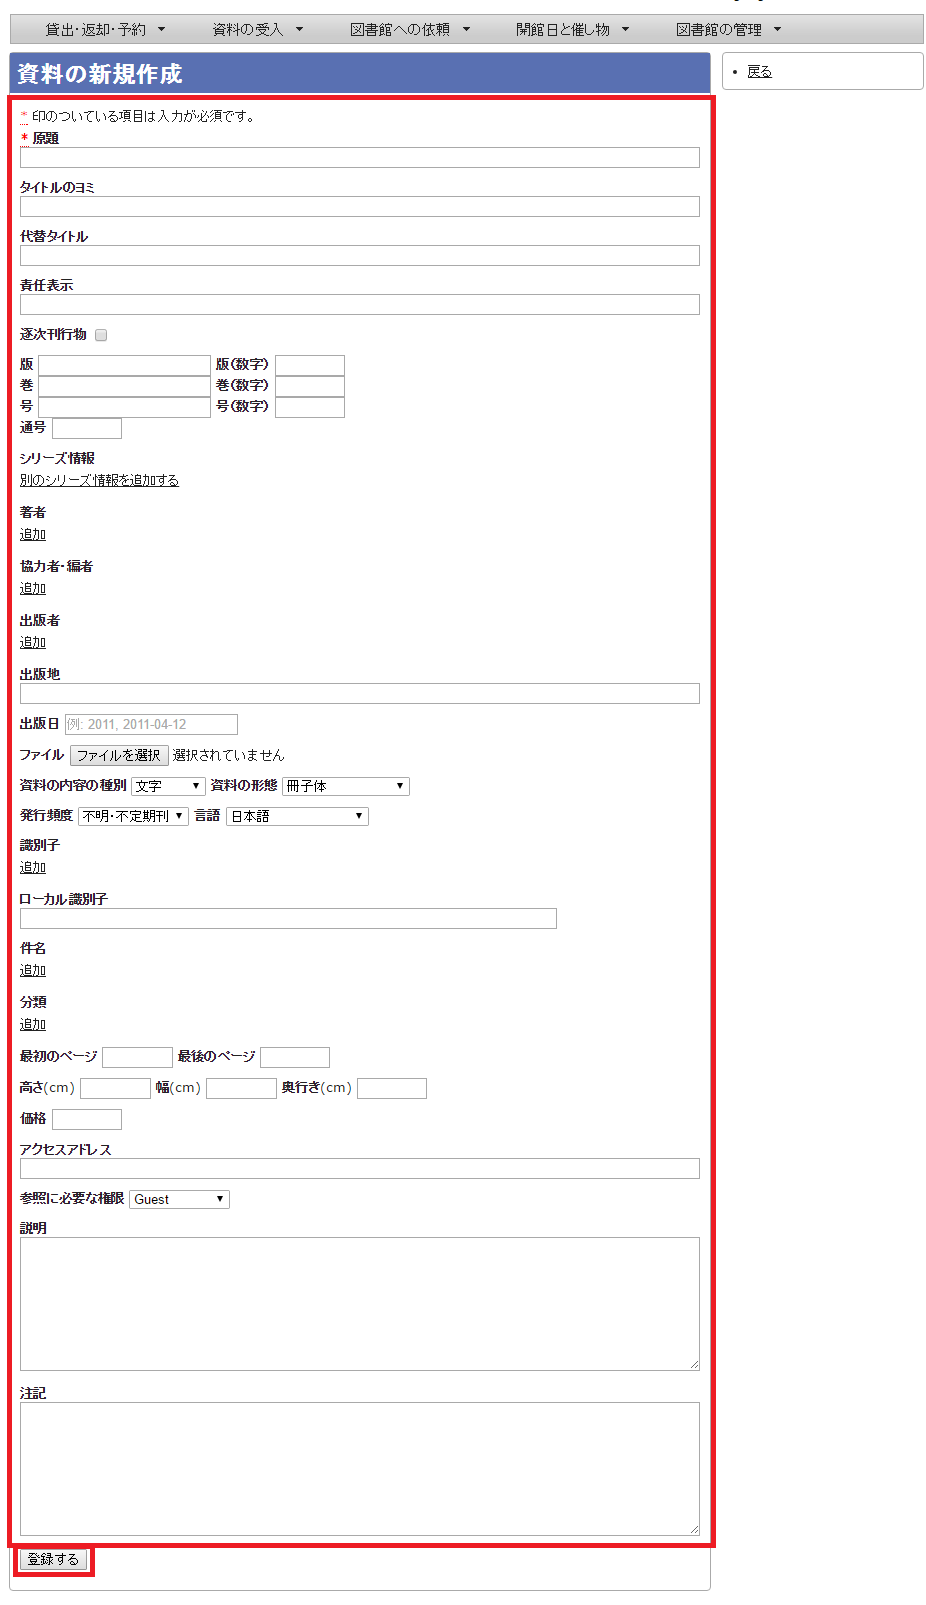
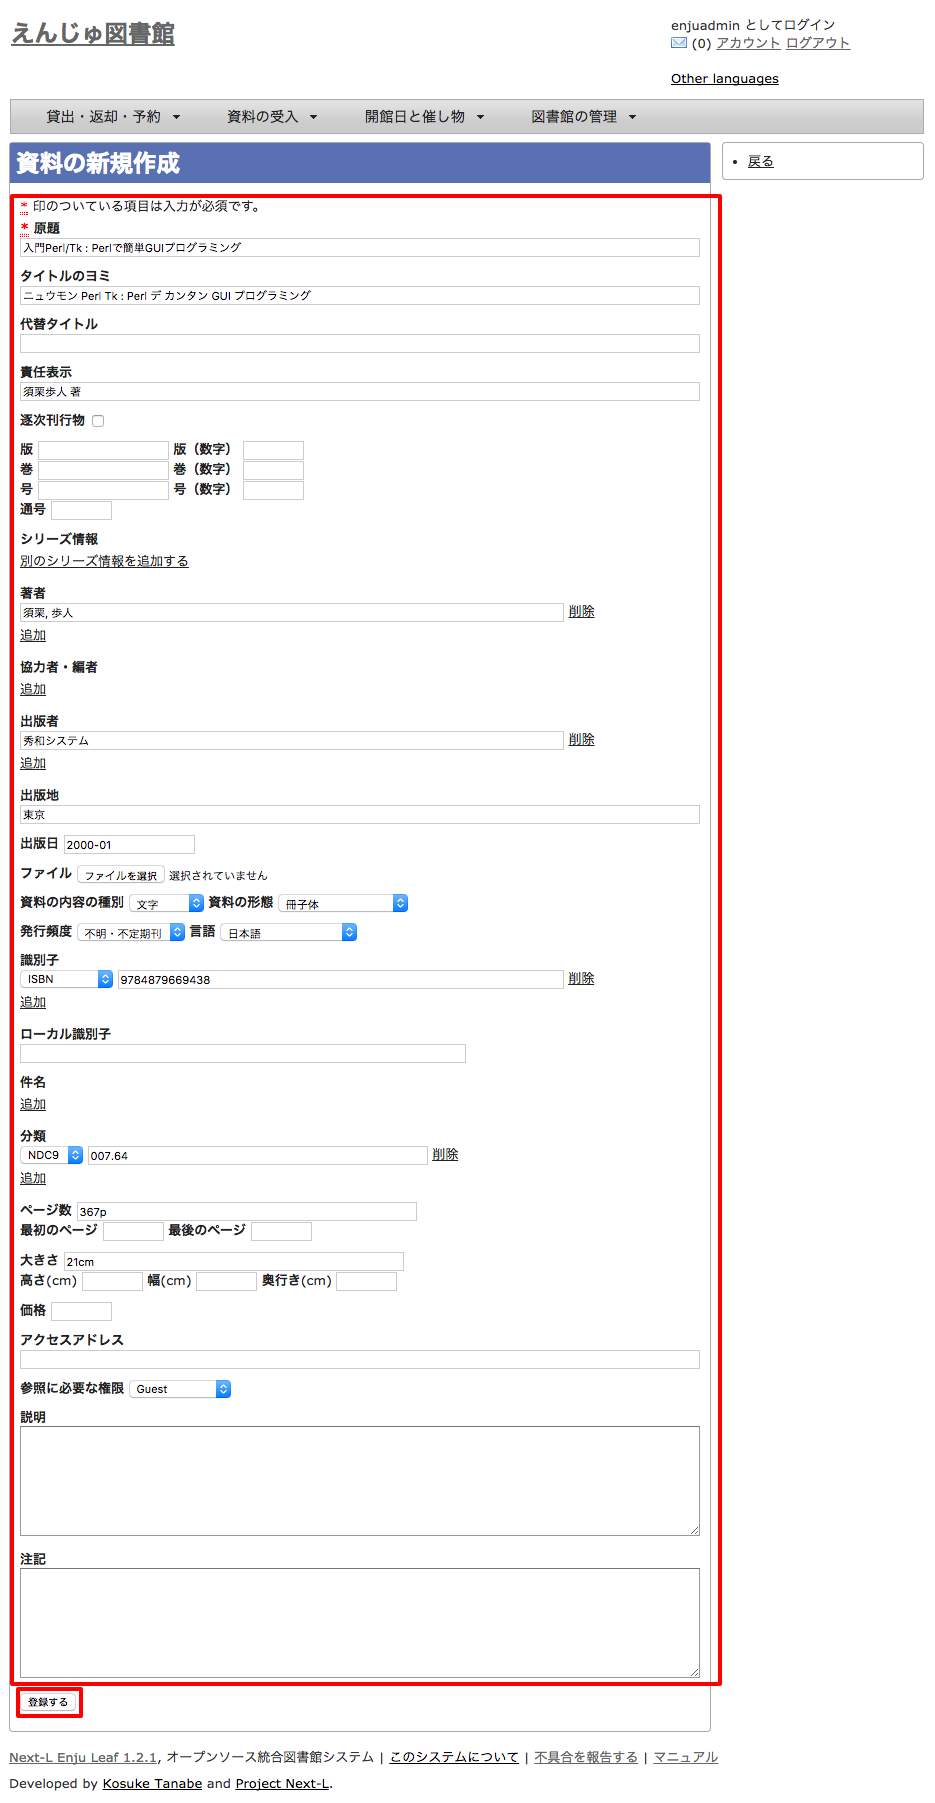
ページ数(extent)、大きさ（dimensions）を入力できるようになったことを修正 https://github.com/next-l/enju_leaf/issues/333 https://github.com/next-l/enju_leaf/issues/368

diff --git a/1.2/enju_operation_4.md b/1.2/enju_operation_4.md
@@ -459,7 +459,13 @@ CiNii Books（<http://ci.nii.ac.jp/books/>）を検索した資料を
 
 ![原題のほか必要な項目を入力し登録](../assets/images/1.2/image_operation_100.png)
 
-<div class="alert alert-info memo" markdown="1">【Memo】「*」のマークが付いた項目は入力必須項目です。
+<div class="alert alert-info memo" markdown="1">
+【Memo】
+
+* 「*」のマークが付いた項目は入力必須項目です。
+* 「ページ数」と「最初のページ」「最後のページ」の両方を入力した場合、「資料の表示」に表示されるのは「ページ数」になります。
+* 「大きさ」と「高さ」の両方を入力した場合、「資料の表示」に表示されるのは「大きさ」になります。
+
 </div>
 
 <div class="alert alert-info memo" markdown="1">
